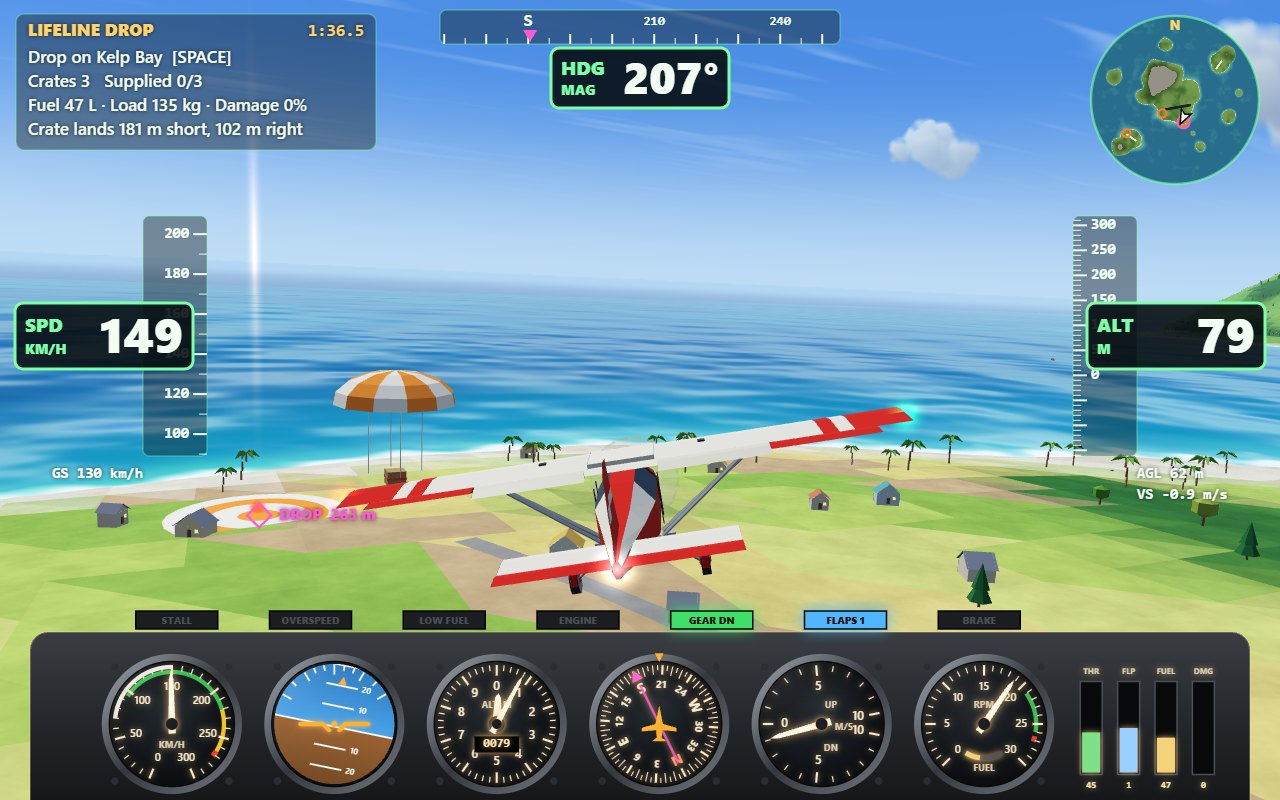
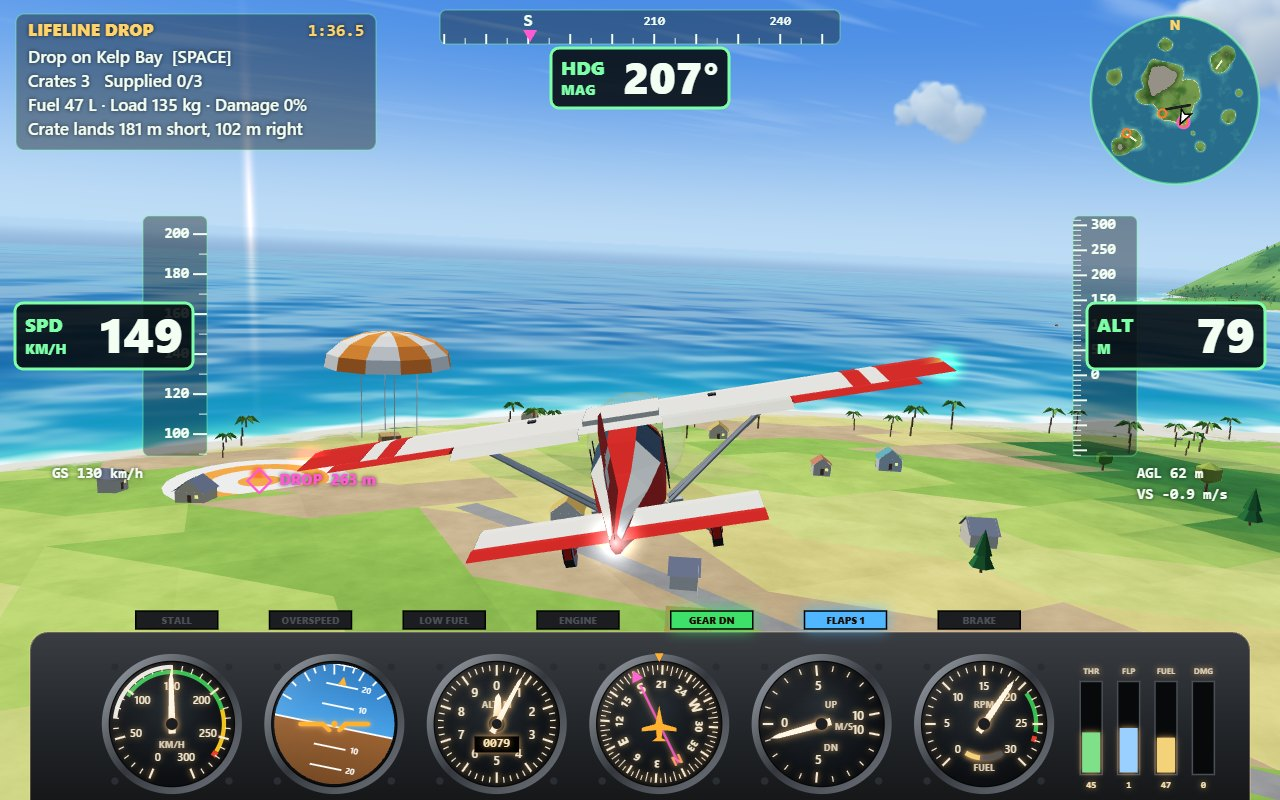
Closer chase camera so the plane fills the cover; per-pixel sand band smooths every shoreline

diff --git a/game/src/terrain.js b/game/src/terrain.js
@@ -5,7 +5,6 @@ import { MeshBuilder } from './mesh-builder.js';
 import { ISLAND_BLOBS, SEA_FLOOR, STRIPS, TERRAIN_CELLS, VILLAGES, WORLD_HALF, WORLD_SEED, stripLocal } from './world-layout.js';
 
 const COLORS = {
-	sand: [0.97, 0.93, 0.8],
 	wetSand: [0.86, 0.8, 0.66],
 	grassLight: [0.36, 0.6, 0.16],
 	grassDark: [0.17, 0.42, 0.12],
@@ -91,7 +90,7 @@ export function createTerrain(seed = WORLD_SEED) {
 		const n = noise(x / 90, z / 90);
 		let c;
 		if (h < 0) c = COLORS.seabed;
-		else if (h < 2.2 + n * 1.6) c = h < 0.7 ? COLORS.wetSand : COLORS.sand;
+		else if (h < 0.7) c = COLORS.wetSand;
 		else if (ny < 0.74 && h < 90) c = ny < 0.5 ? COLORS.chalkShade : COLORS.chalk; // sea cliffs
 		else if (ny < 0.7 || h > 300 + n * 40) c = ny < 0.55 || n > 0.2 ? COLORS.rockDark : COLORS.rock;
 		else {
@@ -100,7 +99,6 @@ export function createTerrain(seed = WORLD_SEED) {
 			const meadow = (ny > 0.92 && h < 120 && fieldAt(x, z)) || lerp3(COLORS.grassLight, COLORS.grassDark, g);
 			c = lerp3(meadow, COLORS.forest, smoothstep(0.35, 0.7, f));
 			if (h > 200) c = lerp3(c, COLORS.rock, smoothstep(200, 300, h) * 0.7);
-			if (h < 4.5) c = lerp3(c, COLORS.sand, 0.4);
 		}
 		const k = (1 + (jitter - 0.5) * 0.09) * clamp(1 - hollow * 0.018, 0.7, 1.08);
 		return [c[0] * k, c[1] * k, c[2] * k, 0];

diff --git a/game/src/camera.js b/game/src/camera.js
@@ -40,14 +40,14 @@ export class FlightCamera {
 		const dir = normalize(lerp3(flat[0] || flat[2] ? flat : fwd, fwd, 0.4));
 		const cy = Math.cos(this.lookYaw), sy = Math.sin(this.lookYaw);
 		const back = [-(dir[0] * cy - dir[2] * sy), -dir[1], -(dir[0] * sy + dir[2] * cy)];
-		const dist = 16, height = 4.8 + this.lookPitch * 14;
+		const dist = 14, height = 4.2 + this.lookPitch * 14;
 		const desired = madd(scale(back, dist), [0, 1, 0], height);
 		if (!this.offset) this.offset = desired;
 		this.offset = lerp3(this.offset, desired, damp(4.5, dt));
 		this.eye = add(ac.pos, this.offset);
 		const floor = Math.max(0, ground(this.eye[0], this.eye[2])) + 2;
 		if (this.eye[1] < floor) this.eye[1] = floor;
-		this.target = madd(madd(ac.pos, fwd, 8), [0, 1, 0], 1.2);
+		this.target = madd(ac.pos, fwd, 8);
 		this.up = normalize(lerp3([0, 1, 0], acUp, 0.22));
 		this.fov = 50;
 	}

diff --git a/game/src/scene-render.js b/game/src/scene-render.js
@@ -69,7 +69,7 @@ export class SceneRenderer {
 		const right = [view[0], view[4], view[8]], up = [view[1], view[5], view[9]];
 		for (const b of [this.smoke, this.glow, this.debris, this.puffs]) b.clear();
 		r.drawSky();
-		r.drawMesh(this.terrain, id, { ground: true });
+		r.drawMesh(this.terrain, id, { ground: 2 });
 		r.drawWater(this.water);
 		for (const [mesh, decal] of this.statics) r.drawMesh(mesh, id, { decal, ground: decal > 0 });
 		const wind = this.world.windAt(this.sockPos, time), sag = clamp(1.3 - Math.hypot(wind[0], wind[2]) * 0.12, 0.1, 1.3);

diff --git a/game/src/shaders.js b/game/src/shaders.js
@@ -83,6 +83,7 @@ void main() {
 		float fade = clamp(1.0 - length(uCamPos - vWorld) / 1800.0, 0.0, 1.0);
 		float m = vnoise(p * 0.11) * 0.55 + vnoise(p * 0.37) * 0.3 + vnoise(p * 1.3) * 0.15;
 		base *= 1.0 + (m - 0.5) * 0.34 * fade;
+		if (uGround > 1.5) base = mix(vec3(0.96, 0.91, 0.76), base, smoothstep(1.4, 3.0, vWorld.y + m * 2.4 - 1.2));
 		shade = cloudLight(vWorld);
 	}
 	float diff = max(dot(n, uSunDir), 0.0) * shade;
